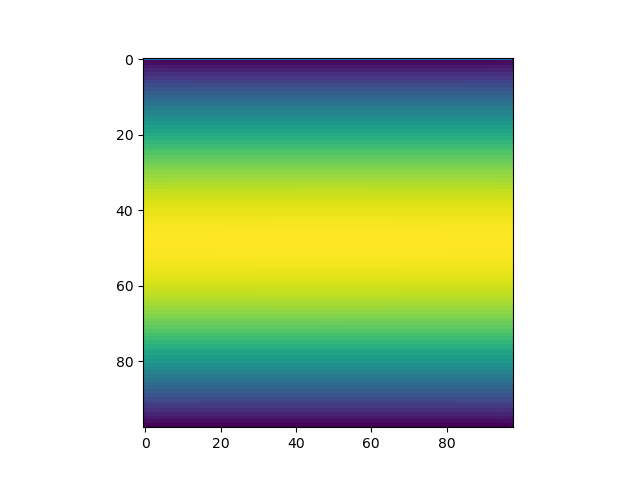
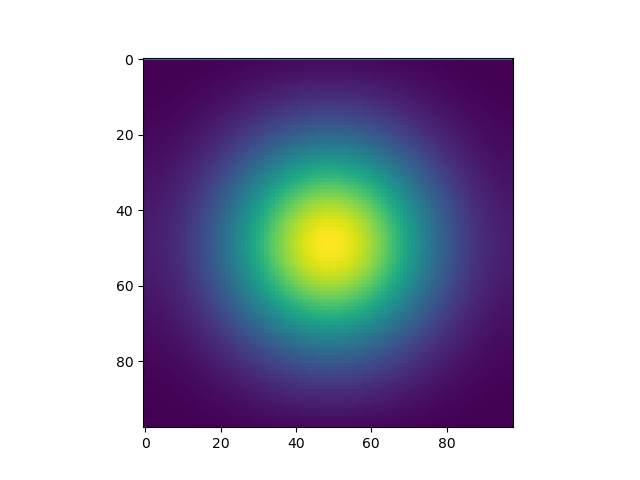
added 2d_diffusion(appropriate results achived)

diff --git a/lbm_D2Q9/python/2d_heat_Flow/main.py b/lbm_D2Q9/python/2d_heat_Flow/main.py
@@ -7,7 +7,7 @@ nx = 100
 ny = 100
 OMEGA = .4
 
-nitr = 1000
+nitr = 100
 
 
 #  indices -> 0 and nx-1/ny-1 will be treated as buffer nodes
